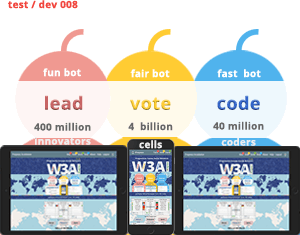
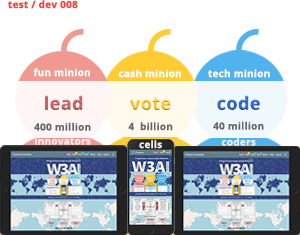
pivot to minions OS for office

diff --git a/src/app/welcome/welcome.component.html b/src/app/welcome/welcome.component.html
@@ -4,7 +4,7 @@
 
   <div class="mission">
     <h4 id="leaders">
-      Y O U R &nbsp; W O R L D &nbsp; P O L I C Y
+      O F F I C E &nbsp; W O R L D &nbsp; P O L I C Y
       </h4>
   </div>
 
@@ -36,7 +36,7 @@
         <li fxHide.lt-md class="ranks" fxLayout="column" fxLayoutAlign="center center" fxLayoutGap="5px">
           <h6 class="carousel"
             title="Ranking based on Alfred North Whitehead formula - Civilization Rank = Number of unique automated services">
-            innovation rank : number of web bots</h6>
+            innovation rank: number of web minions</h6>
           <ol class="container-index" fxLayout="row" fxLayoutAlign="center center" fxLayoutGap="10px">
             <li class="rank"><img class="rank-flag" src="/assets/flags/US.png"><br>en</li>
             <li class="rank"><img class="rank-flag" src="/assets/flags/CN.png"><br>zh</li>
@@ -55,7 +55,7 @@
             <li>
                 <ol class="my-bot-mob-tops" fxLayout="row" fxLayoutAlign="center center" fxLayoutGap="10px">
                     <li class="rank">leads<br><img class="rank-flag" src="/assets/flags/US.png"><br>112</li>
-                    <li class="rank">bots<br><img class="rank-flag" src="/assets/flags/CA.png"><br>134</li>
+                    <li class="rank">minions<br><img class="rank-flag" src="/assets/flags/CA.png"><br>134</li>
                     <li class="rank">skills<br><img class="rank-flag" src="/assets/flags/IN.png"><br>137</li>
                     <li class="rank">friends<br><img class="rank-flag" src="/assets/flags/RO.png"><br>216</li>
                 </ol>
@@ -72,7 +72,7 @@
         <li fxHide.lt-md class="ranks" fxLayout="column" fxLayoutAlign="center center" fxLayoutGap="5px">
           <h6 class="carousel"
             title="Ranking based on Alfred North Whitehead formula - Progress Rank = Speed of adding new types of automated services">
-            progress rate : web bots releases / day</h6>
+            progress rate: web minions releases/day</h6>
           <ol class="container-index" fxLayout="row" fxLayoutAlign="center center" fxLayoutGap="10px">
             <li class="rank"><img class="rank-flag" src="/assets/flags/CN.png"><br>zh</li>
             <li class="rank"><img class="rank-flag" src="/assets/flags/US.png"><br>en</li>
@@ -573,7 +573,7 @@
     <section *ngIf="run">
   
       <div id="hello-world">
-        <h1 id="main-title">web brain</h1>
+        <h1 id="main-title">web minions</h1>
         <div class="header" fxLayout="row" fxLayoutAlign="center center">
           <div id="left" fxFlex="27%">
             <p>
@@ -583,7 +583,7 @@
               services: {{ superServicesNo }}<br>
               tasks/ms: {{ superTxPerMs }}<br>
               $/min: {{ superRatePerMin | currency }}<br>
-              <span class="side-title">web brain</span><br>
+              <span class="side-title">web minions</span><br>
             </p>
           </div>
   
@@ -609,7 +609,7 @@
                 skills: {{ officeServicesNo }}<br>
                 tasks/ms: {{ officeTxPerMs }}<br>
                 $/min: {{ officeRatePerMin | currency }}<br>
-                <span class="side-title">business brains</span><br>
+                <span class="side-title">business minions</span><br>
               </p>
             </div>
           </div>
@@ -670,7 +670,7 @@
   </a>
 -->
 
-  <h1>the web brain</h1>
+  <h1>web minions OS</h1>
 </section>
 
 <div class="welcome" fxLayout="row" fxLayoutGap="0px"  fxLayoutGap.gt-xs="18px" fxLayoutAlign="center center">
@@ -684,7 +684,7 @@
   </section>
   <section>
     <h3>progress</h3>
-    <a routerLink="/skill"><button mat-button>add bots</button></a>
+    <a routerLink="/skill"><button mat-button>add mins</button></a>
   </section>
 </div>
 
@@ -703,7 +703,7 @@
   <section>
     <h3>how it works</h3>
     <p contenteditable="true">1. post lead ideas.</p>
-    <p contenteditable="true">2. build web bots.</p>
+    <p contenteditable="true">2. build web minions.</p>
     <p contenteditable="true">3. team up for fast wins.</p>
   </section>
   <section>
@@ -721,13 +721,13 @@
 </div>
 
 <div class="welcome">
-  <h1>web's neocortex</h1>
-  <p>decentralized web neurons run 24/7</p>
-  <p>3 types of bots in w3ai format:</p>
-  <p>lead bot, deal bot, web bot</p>
+  <h1>web minions OS</h1>
+  <p>your web minions armies run 24/7</p>
+  <p>3 types of minions in w3ai format:</p>
+  <p>lead mins, deal mins, web mins</p>
   <p>build & share projects, skills & teams</p>
-  <p>live transformation of ideas in bots</p>
-  <p>trinity bots cloned on your OS loop</p>
+  <p>live transformation of ideas in mins</p>
+  <p>trinity mins cloned on your OS loop</p>
   <p>for online & offline operation 24/7</p>
   <p>maximize use of world resources</p>
   <p>fair distribution of benefits to all</p>

diff --git a/src/app/navigation/header/header.component.html b/src/app/navigation/header/header.component.html
@@ -10,7 +10,7 @@
 <section class="toolbar-text" fxFlex>
 
     <div fxFlex fxLayout fxLayoutAlign="flex-start" fxHide.gt-sm>
-        <a routerLink="/">politics</a>
+        <a routerLink="/">minions</a>
     </div>
 
     <div xFlex fxLayout fxLayoutAlign="flex-start" fxHide.lt-md>
@@ -19,8 +19,8 @@
 
     <div fxFlex fxLayout fxLayoutAlign="flex-end" fxHide.gt-sm>
         <ul fxLayout fxLayoutAlign="center center" fxLayoutGap="12px" fxLayoutGap.gt-xs="20px" class="navigation-items">
-            <li *ngIf="isAuth$ | async"><a routerLink="/project"><span matBadge="9" matBadgeColor="accent">idea</span></a></li>            
-            <li *ngIf="isAuth$ | async"><a routerLink="/venture"><span matBadge="7" matBadgeColor="warn">vote</span></a></li>
+            <li *ngIf="isAuth$ | async"><a routerLink="/project"><span matBadge="9" matBadgeColor="accent">todo</span></a></li>            
+            <li *ngIf="isAuth$ | async"><a routerLink="/venture"><span matBadge="7" matBadgeColor="warn">fund</span></a></li>
             <li *ngIf="isAuth$ | async"><a routerLink="/session"><span class="alternate-theme" matBadge="6" matBadgeColor="primary">done</span></a></li>
         </ul>
     </div>
@@ -28,10 +28,10 @@
     <div fxFlex fxLayout fxLayoutAlign="flex-end" fxHide.lt-md>
         <ul fxLayout fxLayoutAlign="center center" fxLayoutGap="12px" fxLayoutGap.gt-xs="20px" class="navigation-items">
 
-            <li *ngIf="isAuth$ | async"><a routerLink="/project"><span matBadge="9" matBadgeColor="accent" matBadgeOverlap="true">idea</span></a></li>
-            <li *ngIf="isAuth$ | async"><a routerLink="/venture"><span matBadge="7" matBadgeColor="warn">vote</span></a></li>
+            <li *ngIf="isAuth$ | async"><a routerLink="/project"><span matBadge="9" matBadgeColor="accent" matBadgeOverlap="true">todo</span></a></li>
+            <li *ngIf="isAuth$ | async"><a routerLink="/venture"><span matBadge="7" matBadgeColor="warn">fund</span></a></li>
             <li *ngIf="isAuth$ | async"><a routerLink="/session"><span matBadge="6" class="alternate-theme" matBadgeColor="primary" matBadgeOverlap="true">done</span></a></li>
-            <li *ngIf="isAuth$ | async"><a routerLink="/session"><span matBadge="8" class="bot-theme" matBadgeColor="primary" matBadgeOverlap="true">bots</span></a></li>
+            <li *ngIf="isAuth$ | async"><a routerLink="/session"><span matBadge="8" class="bot-theme" matBadgeColor="primary" matBadgeOverlap="true">minions</span></a></li>
 
             <li *ngIf="!(isAuth$ | async)"><a routerLink="/signup">signup</a></li>
             <li *ngIf="!(isAuth$ | async)"><a routerLink="/login">login</a></li>

diff --git a/src/app/navigation/header/header.component.ts b/src/app/navigation/header/header.component.ts
@@ -16,7 +16,7 @@ import { SetupService } from '../../setup.service';
 export class HeaderComponent implements OnInit {
   @Output() sidenavToggle = new EventEmitter<void>();
   isAuth$: Observable<boolean>;
-  appTitle = 'my politics';
+  appTitle = 'minions';
 
   constructor(private store: Store<fromRoot.State>, 
               private authService: AuthService,

diff --git a/src/index.html b/src/index.html
@@ -2,7 +2,7 @@
 <html lang="en">
 <head>
   <meta charset="utf-8">
-  <title>politics OS</title>
+  <title>minions OS</title>
   <base href="/">
 
   <meta name="viewport" content="width=device-width, initial-scale=1">
